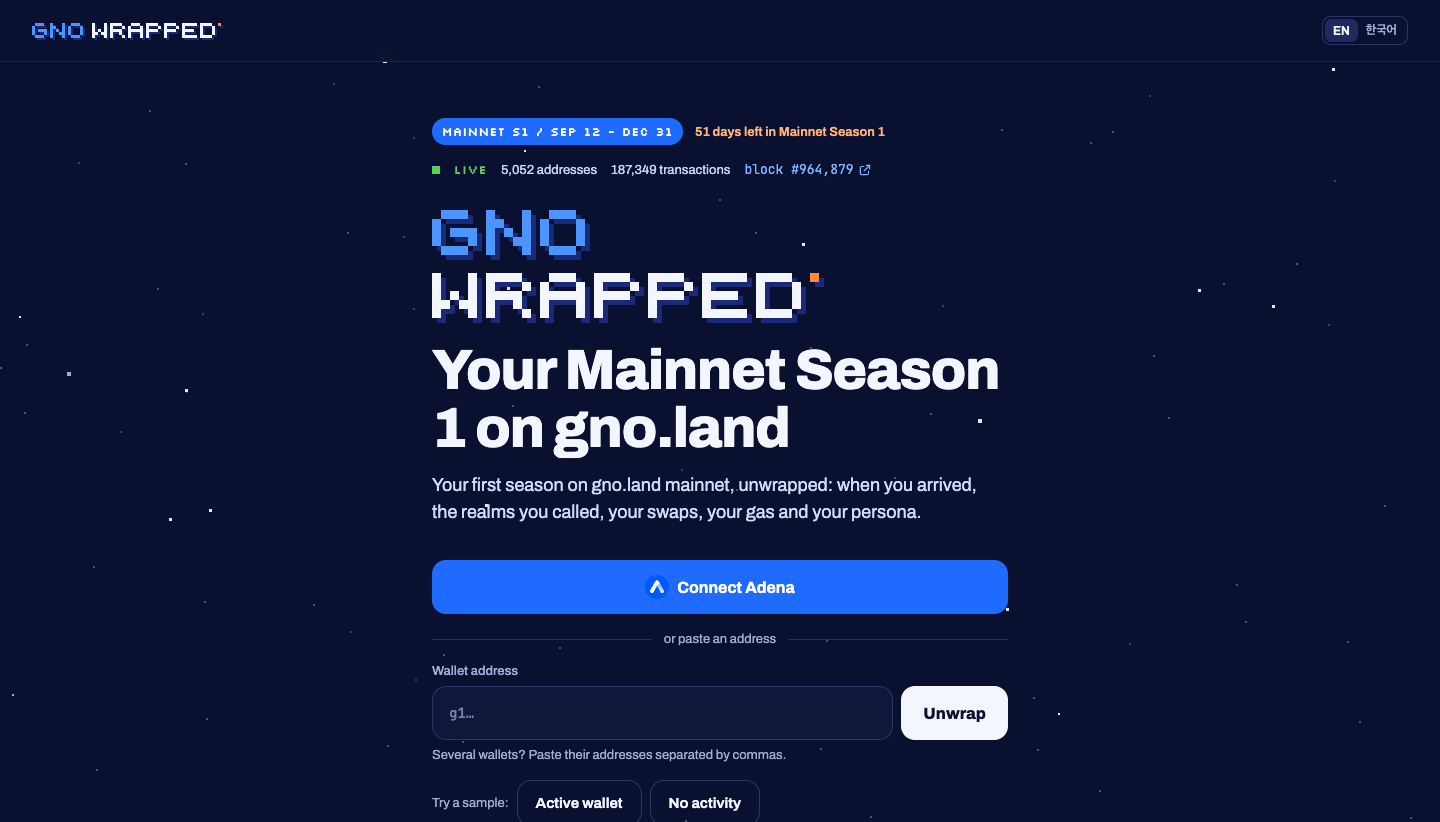
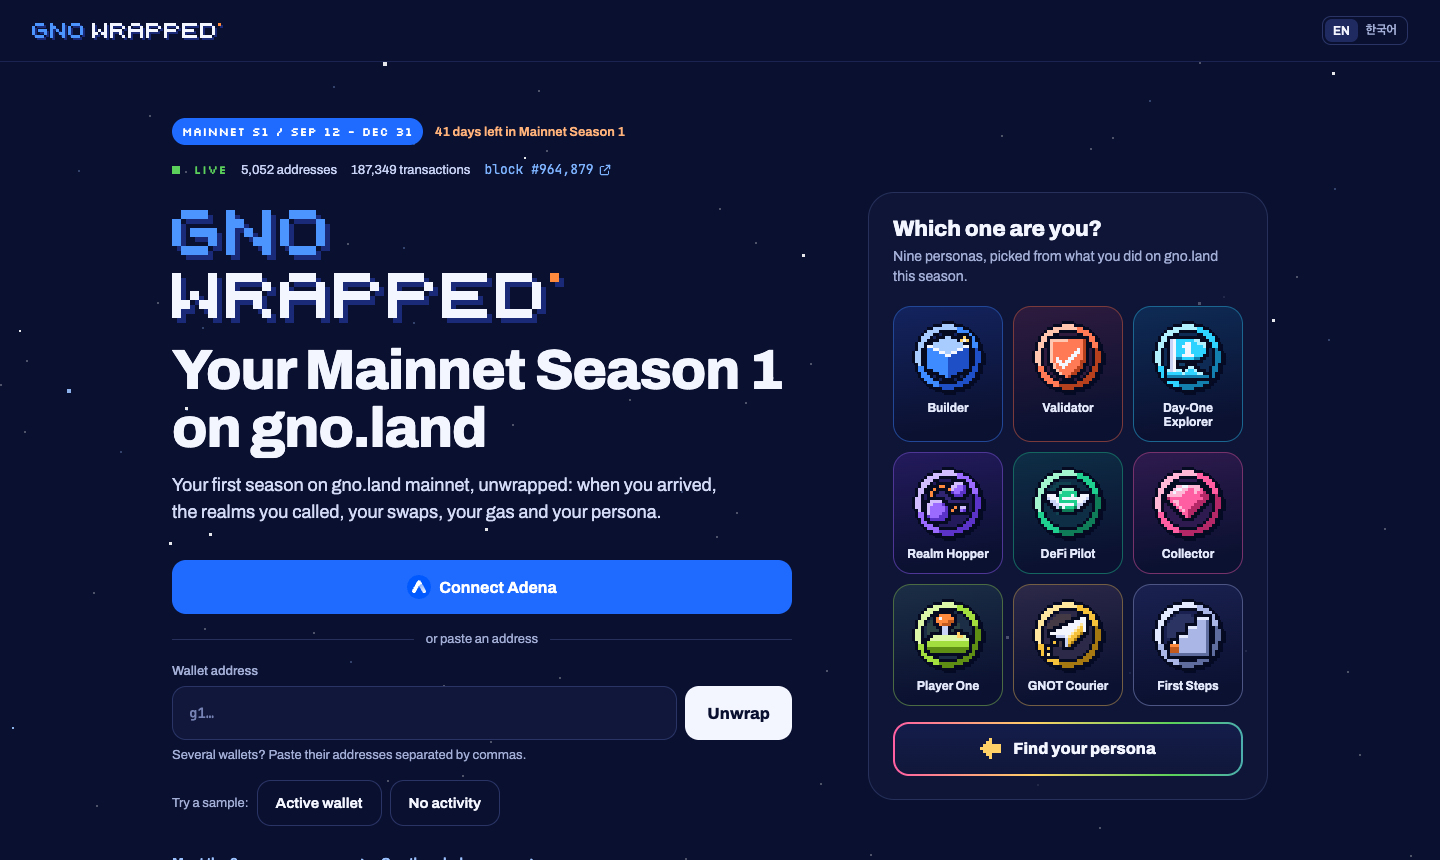
docs: README screenshots for rarity, the new intro and persona pages (#20)
- Retaken: the intro (the nine personas and Find your persona), the
  recap (the flip hint under the badge), the collection (rarity tiers)
  and /personas (the cards as links).
- New: a persona opened from the list (persona-detail.png) and the
  trading card (trading-card.png).
- README: the two new images and updated alt text.

Taken from the sample fixture (g1wrap…qqqq), so no real address; the
persona counts, stats and the intro's live numbers come from local
batch output.

diff --git a/README.md b/README.md
@@ -58,13 +58,15 @@ and a share card for X and Discord. It follows the chain live, so new activity s
 
 ![A recap: persona, rank, headline stats and the start of the achievement collection](docs/screenshots/recap.png)
 
-![The achievement collection: earned ones in colour, the rest as grey silhouettes with their rule](docs/screenshots/collection.png)
+![The achievement collection: earned ones in colour with their rarity, the rest as grey silhouettes with their rule](docs/screenshots/collection.png)
 
 Every chart reads out the day under the pointer or the arrow keys and has a Table view. How personas
 and achievements are decided is on the site's `/personas` page and in [`batch/build.go`](batch/build.go)
 and [`batch/achievements.go`](batch/achievements.go).
 
 <p align="center"><img src="docs/screenshots/share-card.png" width="760" alt="Share card shown on X and Discord, with the achievement icons"></p>
+
+<p align="center"><img src="docs/screenshots/trading-card.png" width="360" alt="The 1080x1350 trading card: the persona badge with a foil, the persona, three numbers and the achievements framed by rarity"></p>
 
 <p align="center">
   <img src="docs/screenshots/story-arrival.png" width="250" alt="Story mode on a phone: the mainnet day you arrived">
@@ -73,6 +75,8 @@ and [`batch/achievements.go`](batch/achievements.go).
 </p>
 
 ![Personas page: nine personas, Validator second](docs/screenshots/personas.png)
+
+![A persona opened from the list: its rule, rarity and how the addresses with it spent the season](docs/screenshots/persona-detail.png)
 
 ## Getting Started
 
@@ -87,7 +91,7 @@ docker compose logs -f ingest                 # follow the chain
 Open http://localhost:3000. The first start fetches the whole season from the indexer
 (about 180 range queries, a few minutes, ~20 MB); after that only new blocks.
 
-![The intro page: connect Adena or paste an address, with live season stats](docs/screenshots/intro.png)
+![The intro page: connect Adena or paste an address, with live season stats and the nine personas](docs/screenshots/intro.png)
 
 Set `SHARE_BASE_URL` in `.env` to the public origin used in share links and preview cards, then
 rebuild the web image (`docker compose up -d --build web`).
